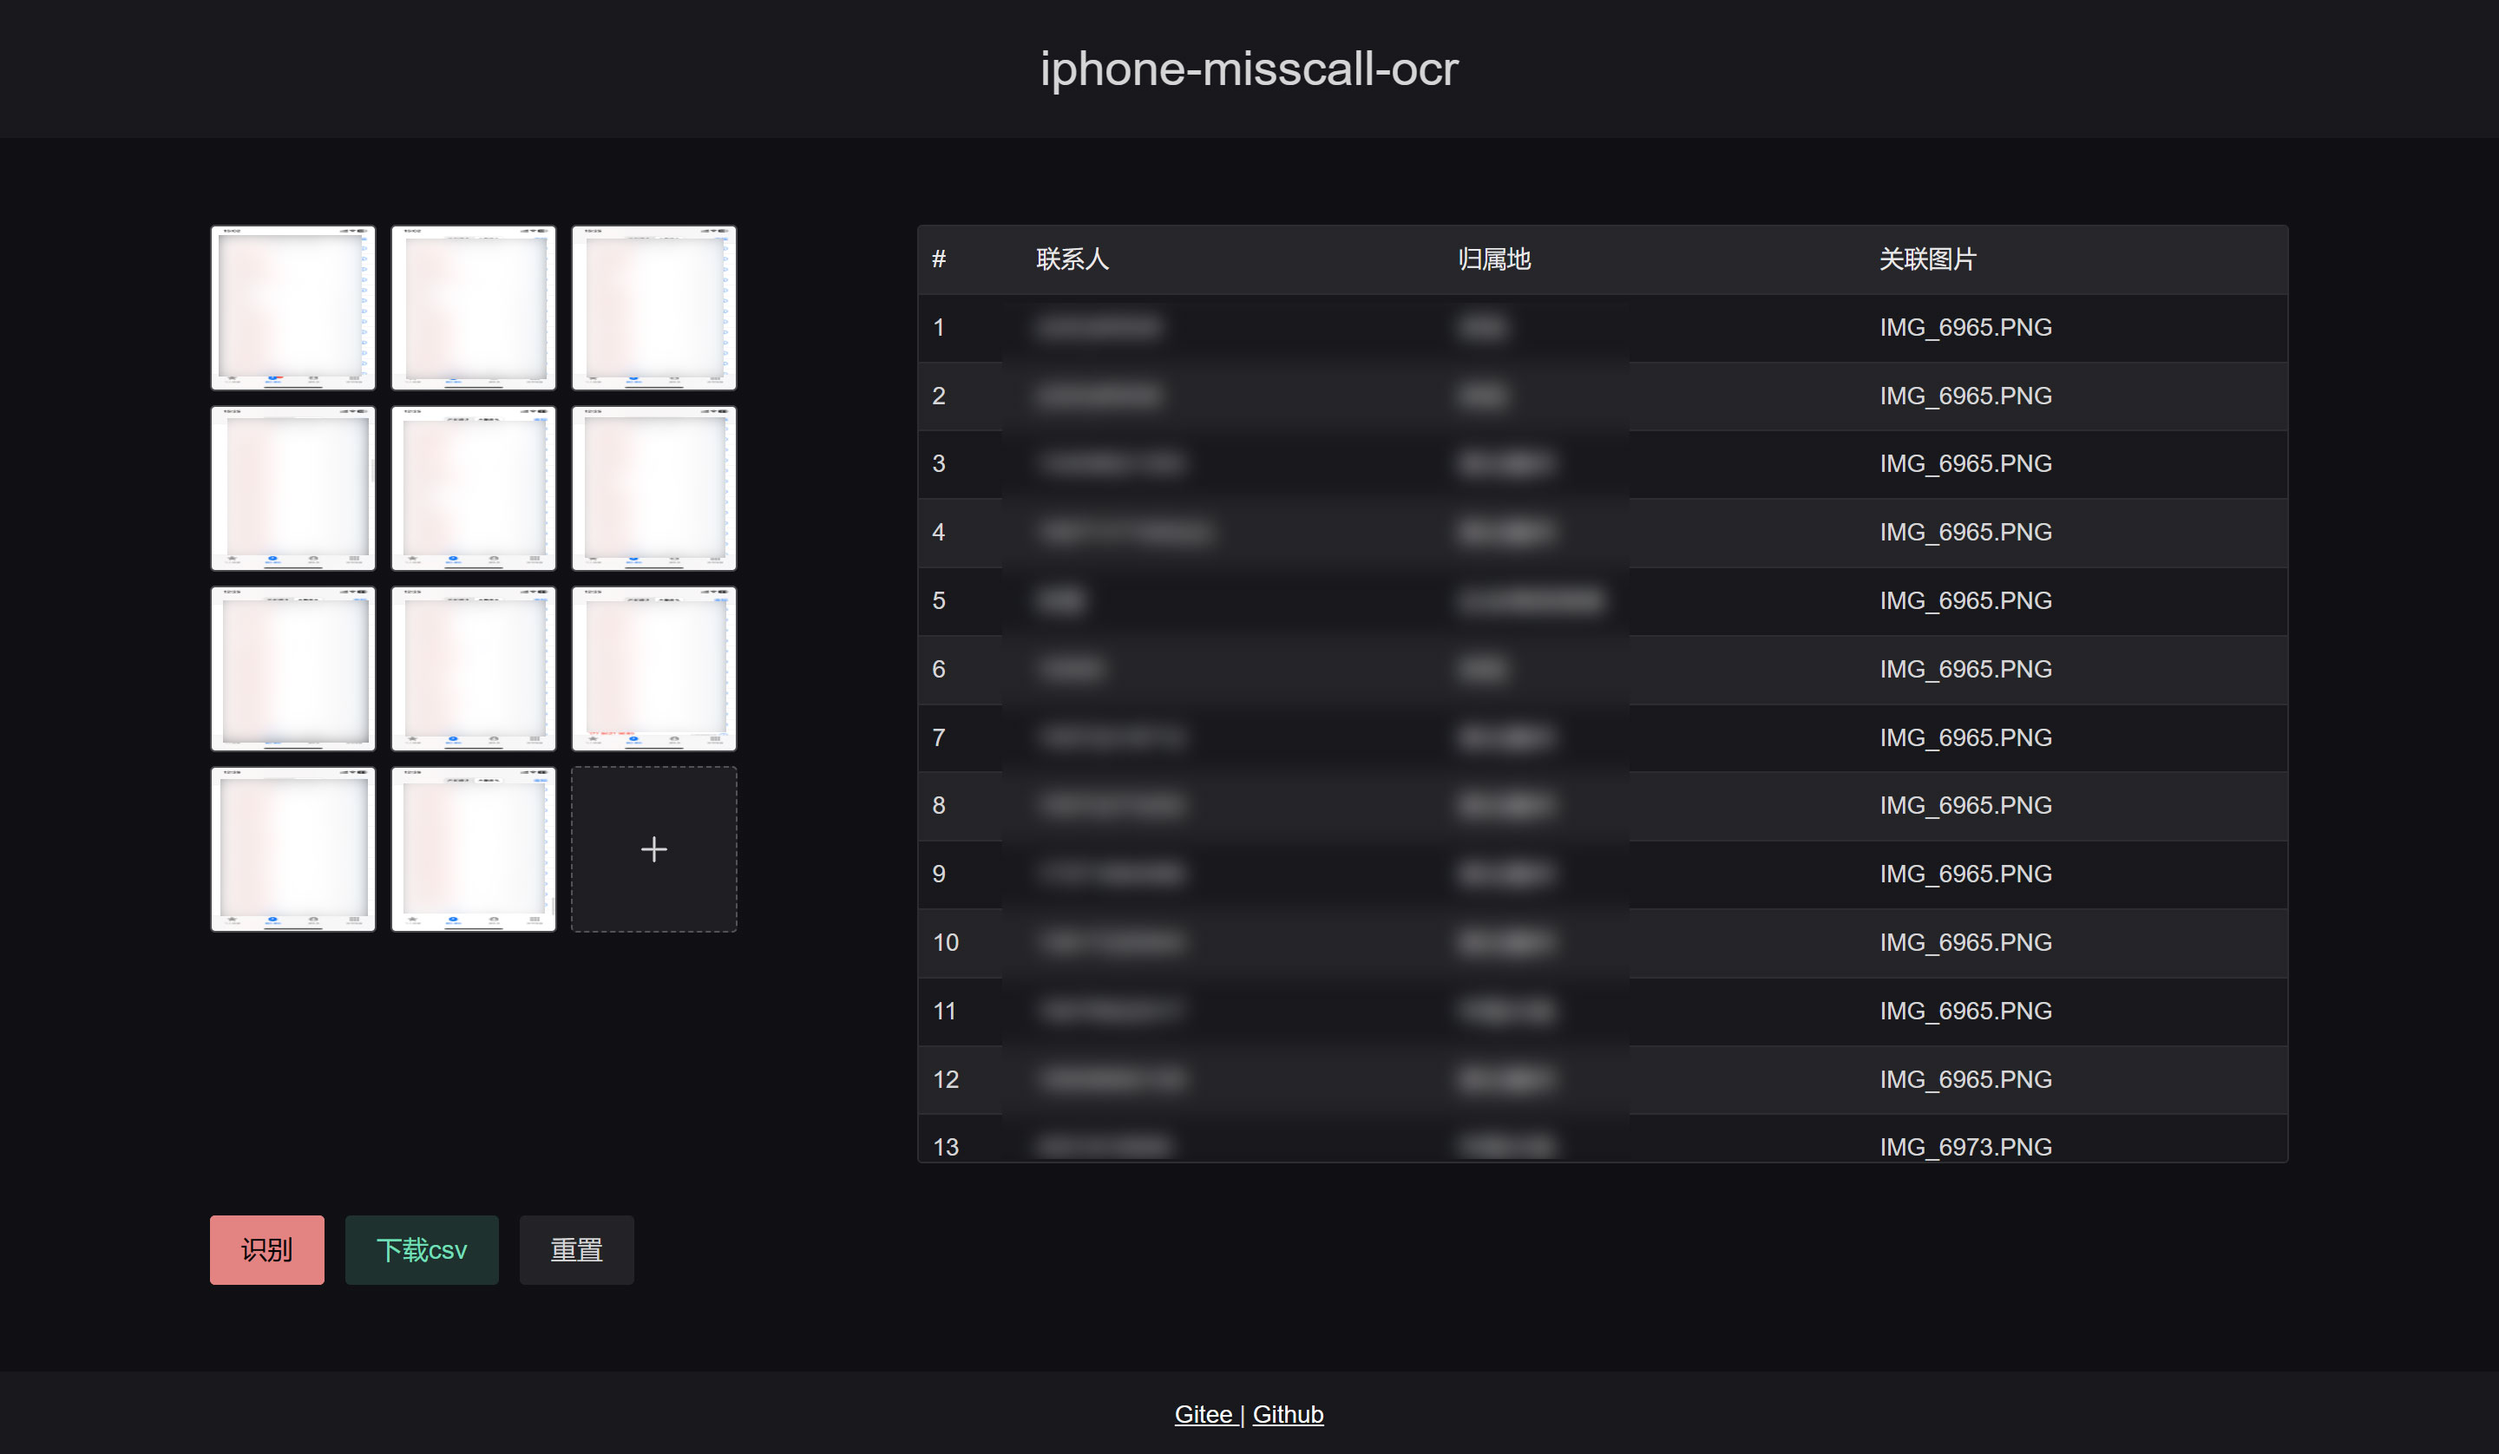
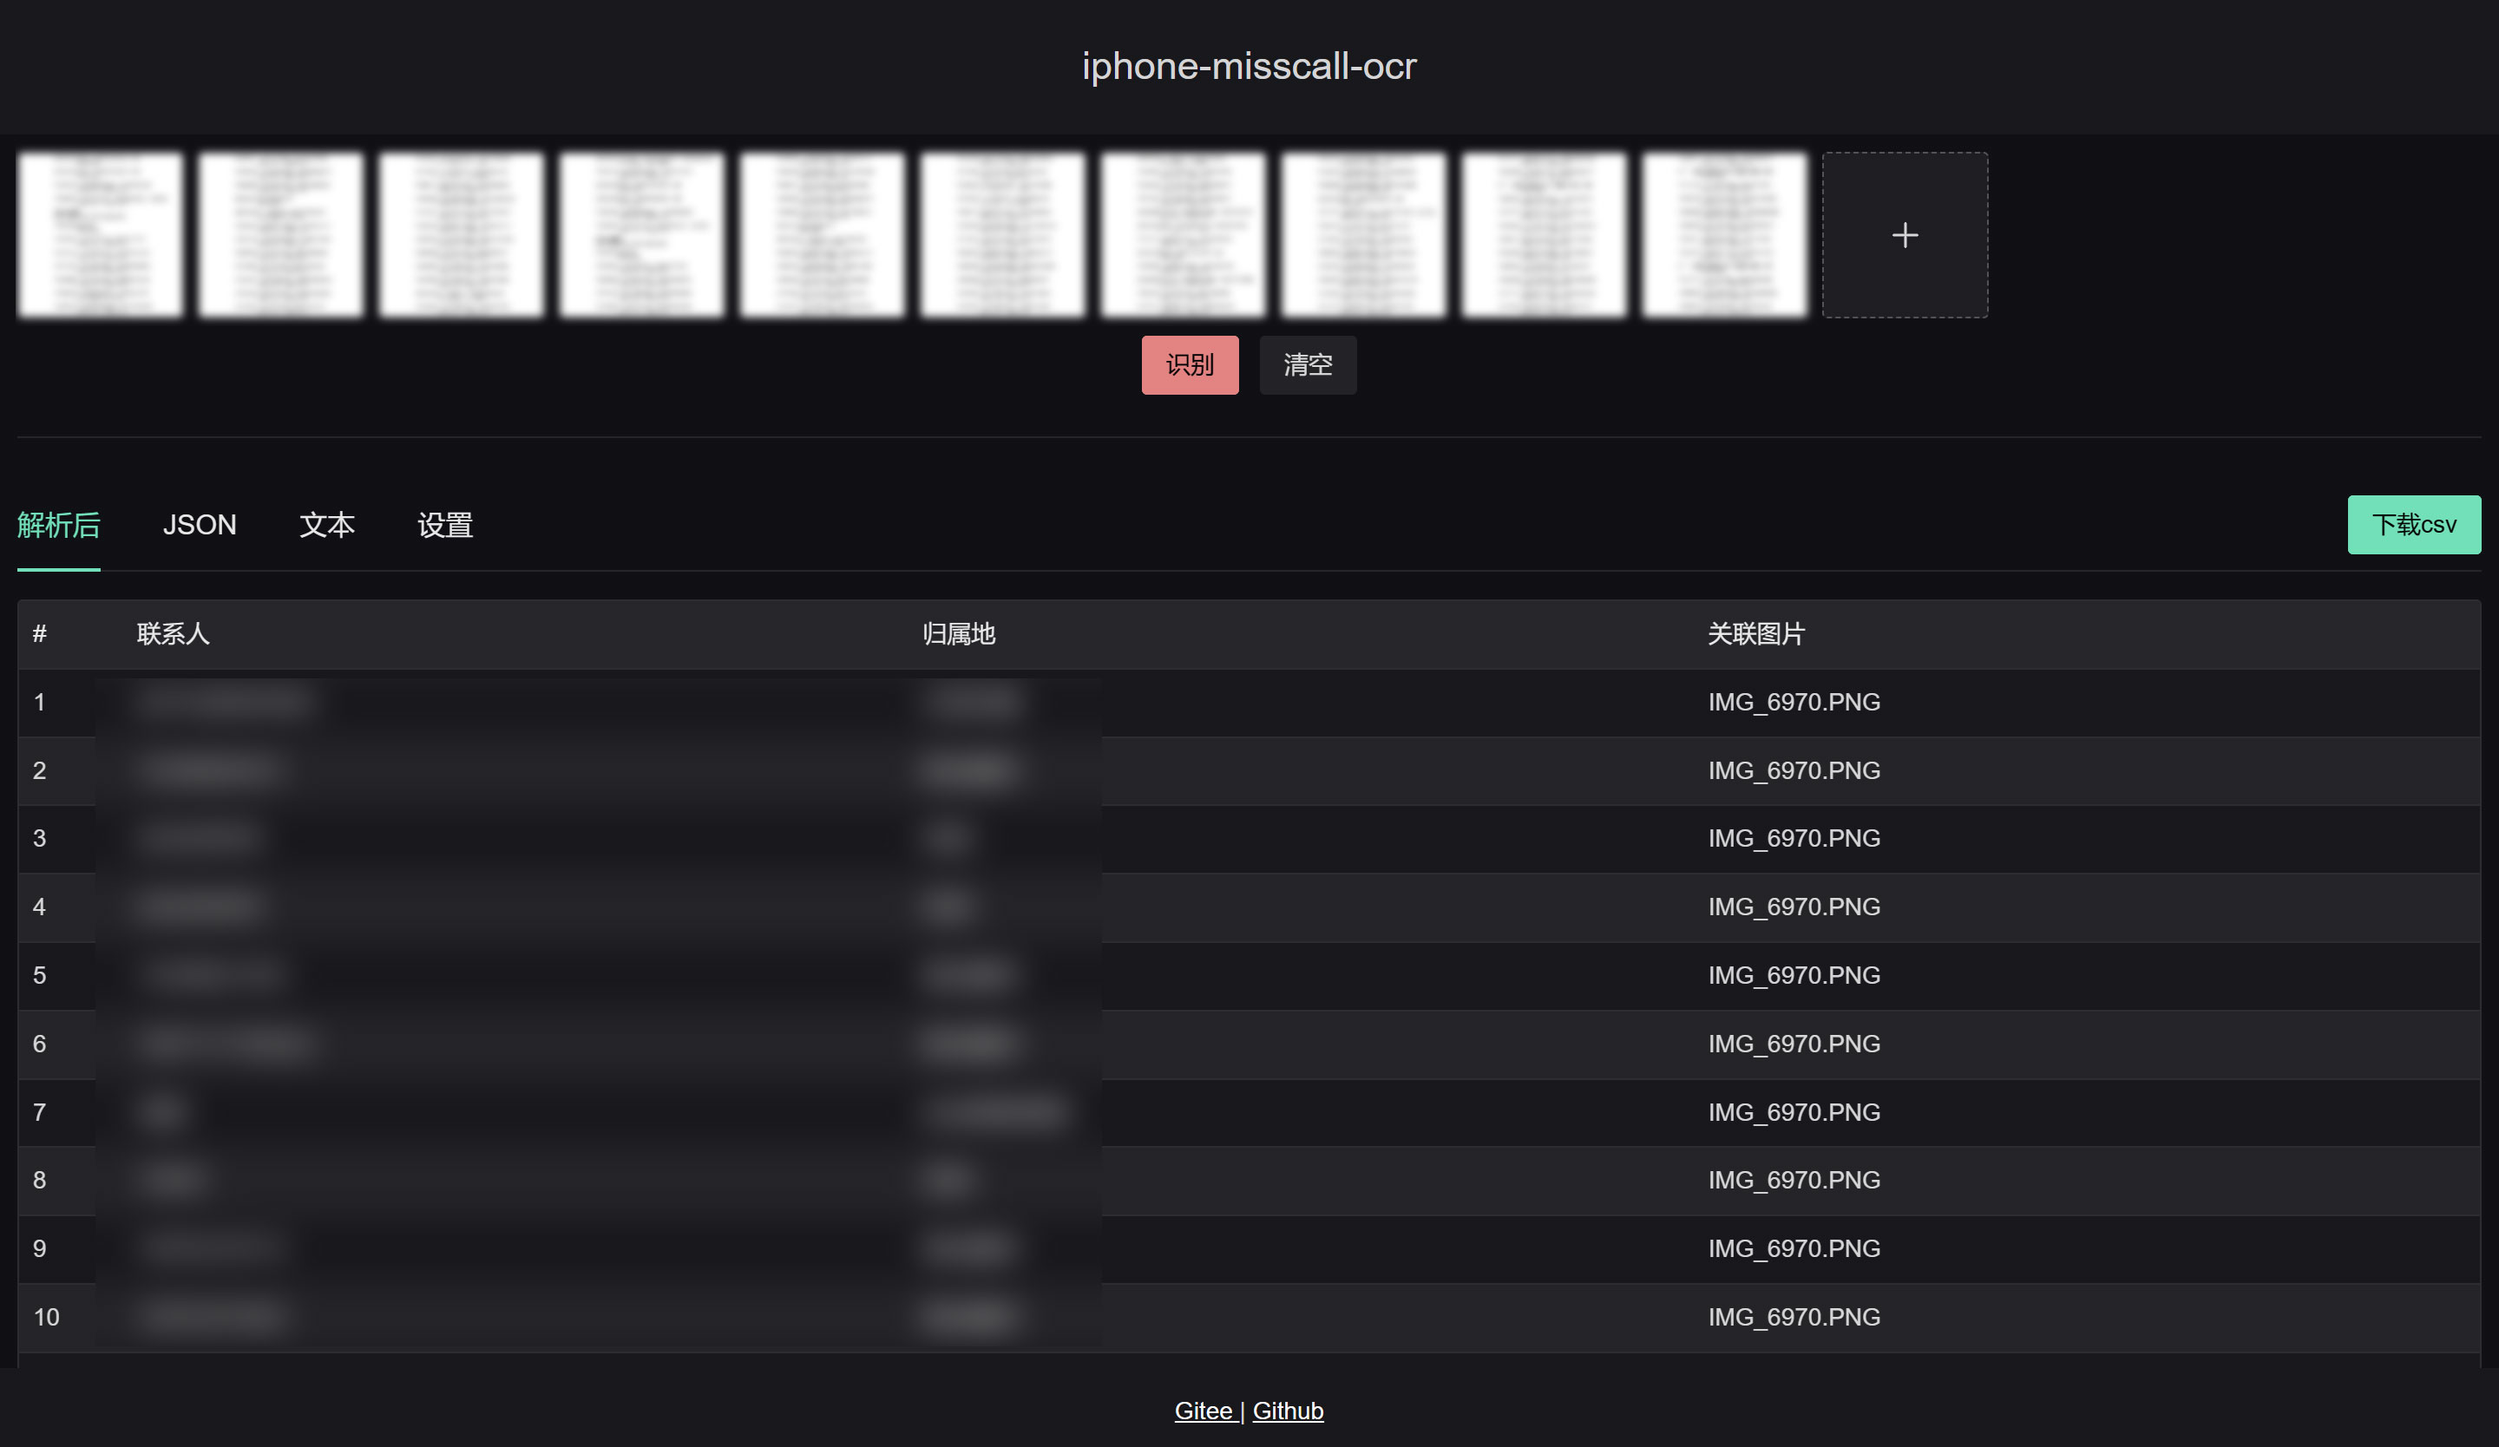
update

diff --git a/README.md b/README.md
@@ -1,6 +1,12 @@
 # iphone-misscall-ocr
 
-iphone 未接来电截图转文字，并提供csv格式下载，使用 tesseract.js,和opencv.js实现识别功能，目前只在iPhone11机型测试过。
+iphone 未接来电截图转文字，并提供json和csv格式下载，使用 tesseract.js,和opencv.js实现识别功能。
+
+通过调整参数可以识别更多型号的ios设备截图，预设参数适用iPhone11
+
+## 图片预处理流程
+
+原始图片 => 调整大小 => 截取识别区域 => 转换为灰度图像 => 二值化 => 生成base64 => 识别文字
 
 ## 预览地址
 
@@ -10,9 +16,15 @@ iphone 未接来电截图转文字，并提供csv格式下载，使用 tesseract
 
 ```npm run dev```
 
+## 打包
+
+```npm run build```
+
 ## 截图
 
 ![img](readme/thumb.jpg)
+
+![img](readme/thumb-2.jpg)
 
 ## 识别区域
 
